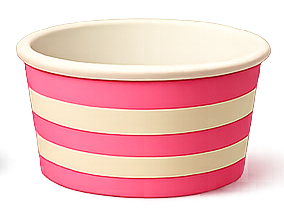
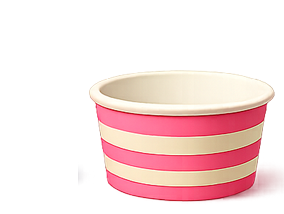
commit
fixed size of cup and re-uploaded, add addCup() function, and finished the order board (generate orders). Also create two arrays to keep tract of the correct vs actual order for later use.

diff --git a/Assignments/Final Capstone Project/sketch.js b/Assignments/Final Capstone Project/sketch.js
@@ -9,7 +9,11 @@ let bg, chalkboard, bubblegum, butter, chocolate, cookies, mango, mint,
 strawberry, vanilla, cone, cup;
 
 let vertices = [];
+let order = [];
+let correctOrder = [];
 let px, py;
+let scoopNum;
+let coneOrCup;
 let container = 0;    //0-no container, 1-cone, 2-cup
 
 function preload(){
@@ -34,6 +38,9 @@ function setup() {
   vertices.push(createVector(50, height/2-33));
   vertices.push(createVector(105, height/2+200));
   vertices.push(createVector(0, height/2+205));
+  //stroke(255);
+  generateOrder();
+
   
 }
 
@@ -41,11 +48,53 @@ function setup() {
 function draw() {
   image(bg, 0, 0);
   image(chalkboard, -230, -200);
+  addCup();
+  drawOrder();
   addCone(vertices, mouseX, mouseY);
+  addCup(mouseX, mouseY, width-90, height-300, 90, 200);
   if(container === 1){
     image(cone, width/2+150, height/2-355);
   }
+  else if(container === 2){
+    image(cup, width/2+100, height/2-240);
+  }
+}
+
+function generateOrder(){
+  scoopNum = Math.round(random(0.5, 3.5));
+  coneOrCup = random(["cone", "cup"]);
+  correctOrder[0] = coneOrCup;
+
+  if(scoopNum >= 1){
+    let flavor1 = random(["Bubblegum", "Butter Pecan", "Chocolate", "Cookies&Cream", "Mango Sorbet", "Mint Chip", "Strawberry", "Vanilla"]);
+    correctOrder[1] = flavor1;
+  }
+  if(scoopNum >= 2){
+    let flavor2 = random(["Bubblegum", "Butter Pecan", "Chocolate", "Cookies&Cream", "Mango Sorbet", "Mint Chip", "Strawberry", "Vanilla"]);
+    correctOrder[2] = flavor2;
+  }
+  if(scoopNum >= 3){
+    let flavor3 = random(["Bubblegum", "Butter Pecan", "Chocolate", "Cookies&Cream", "Mango Sorbet", "Mint Chip", "Strawberry", "Vanilla"]);
+    correctOrder[3] = flavor3;
+  }
+}
+
+function drawOrder(){
+  stroke(255);
+  textSize(20);
+  text(scoopNum+" Scoop(s) in a " + coneOrCup, 410, 260);
+  if(scoopNum >= 1){
+    text("1. " + correctOrder[1], 440, 290);
+  }
   
+  if(scoopNum >= 2){
+    text("2. "+ correctOrder[2], 440, 320);
+  }
+
+  if(scoopNum >= 3){
+    text("3. " + correctOrder[3], 440, 350);
+  }
+
 }
 
 
@@ -70,11 +119,31 @@ function addCone(vertices, px, py){
   return collision;
 }
 
+function addCup(px, py, rx, ry, rw, rh){
+  noFill();
+  noStroke();
+  rect(width-90, height-300, 90, 200);
+  if (px >= rx &&        // right of the left edge AND
+      px <= rx + rw &&   // left of the right edge AND
+      py >= ry &&        // below the top AND
+      py <= ry + rh) {   // above the bottom
+        return true;
+  }
+  else return false;
+}
+
+
 
 
 
 function mousePressed(){
   if(addCone(vertices, mouseX, mouseY)){
     container = 1;
+    order[0] = 1;
+  }
+
+  if(addCup(mouseX, mouseY, width-90, height-300, 90, 200)){
+    container = 2;
+    order[0] = 2;
   }
 }
